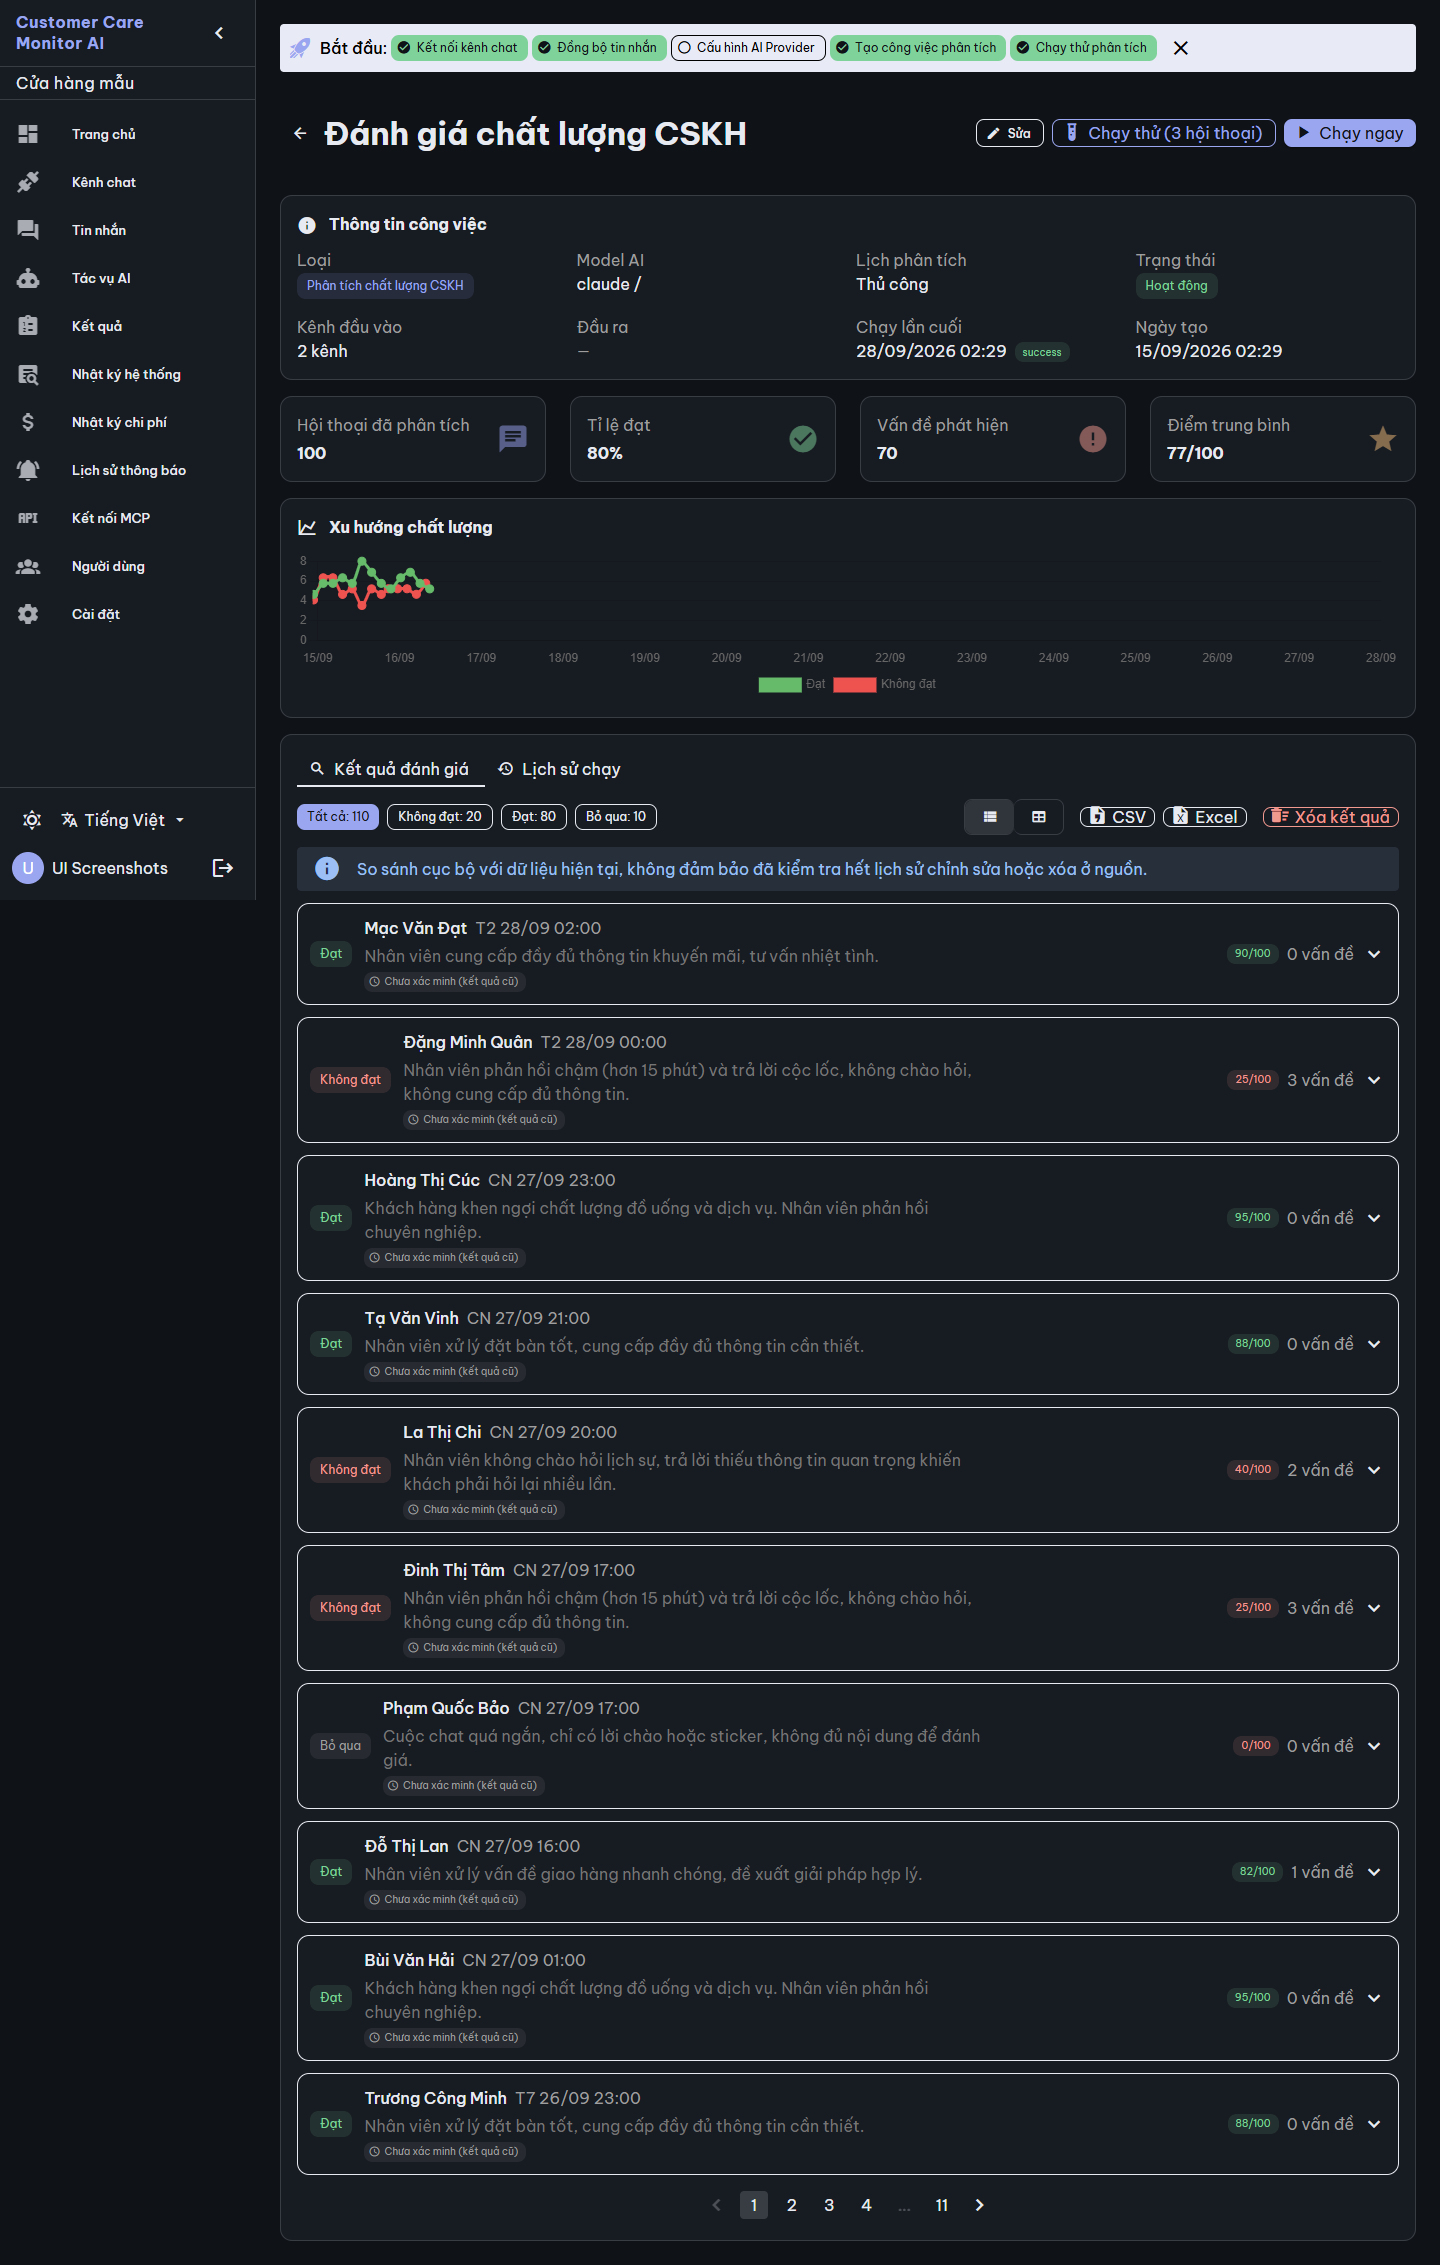
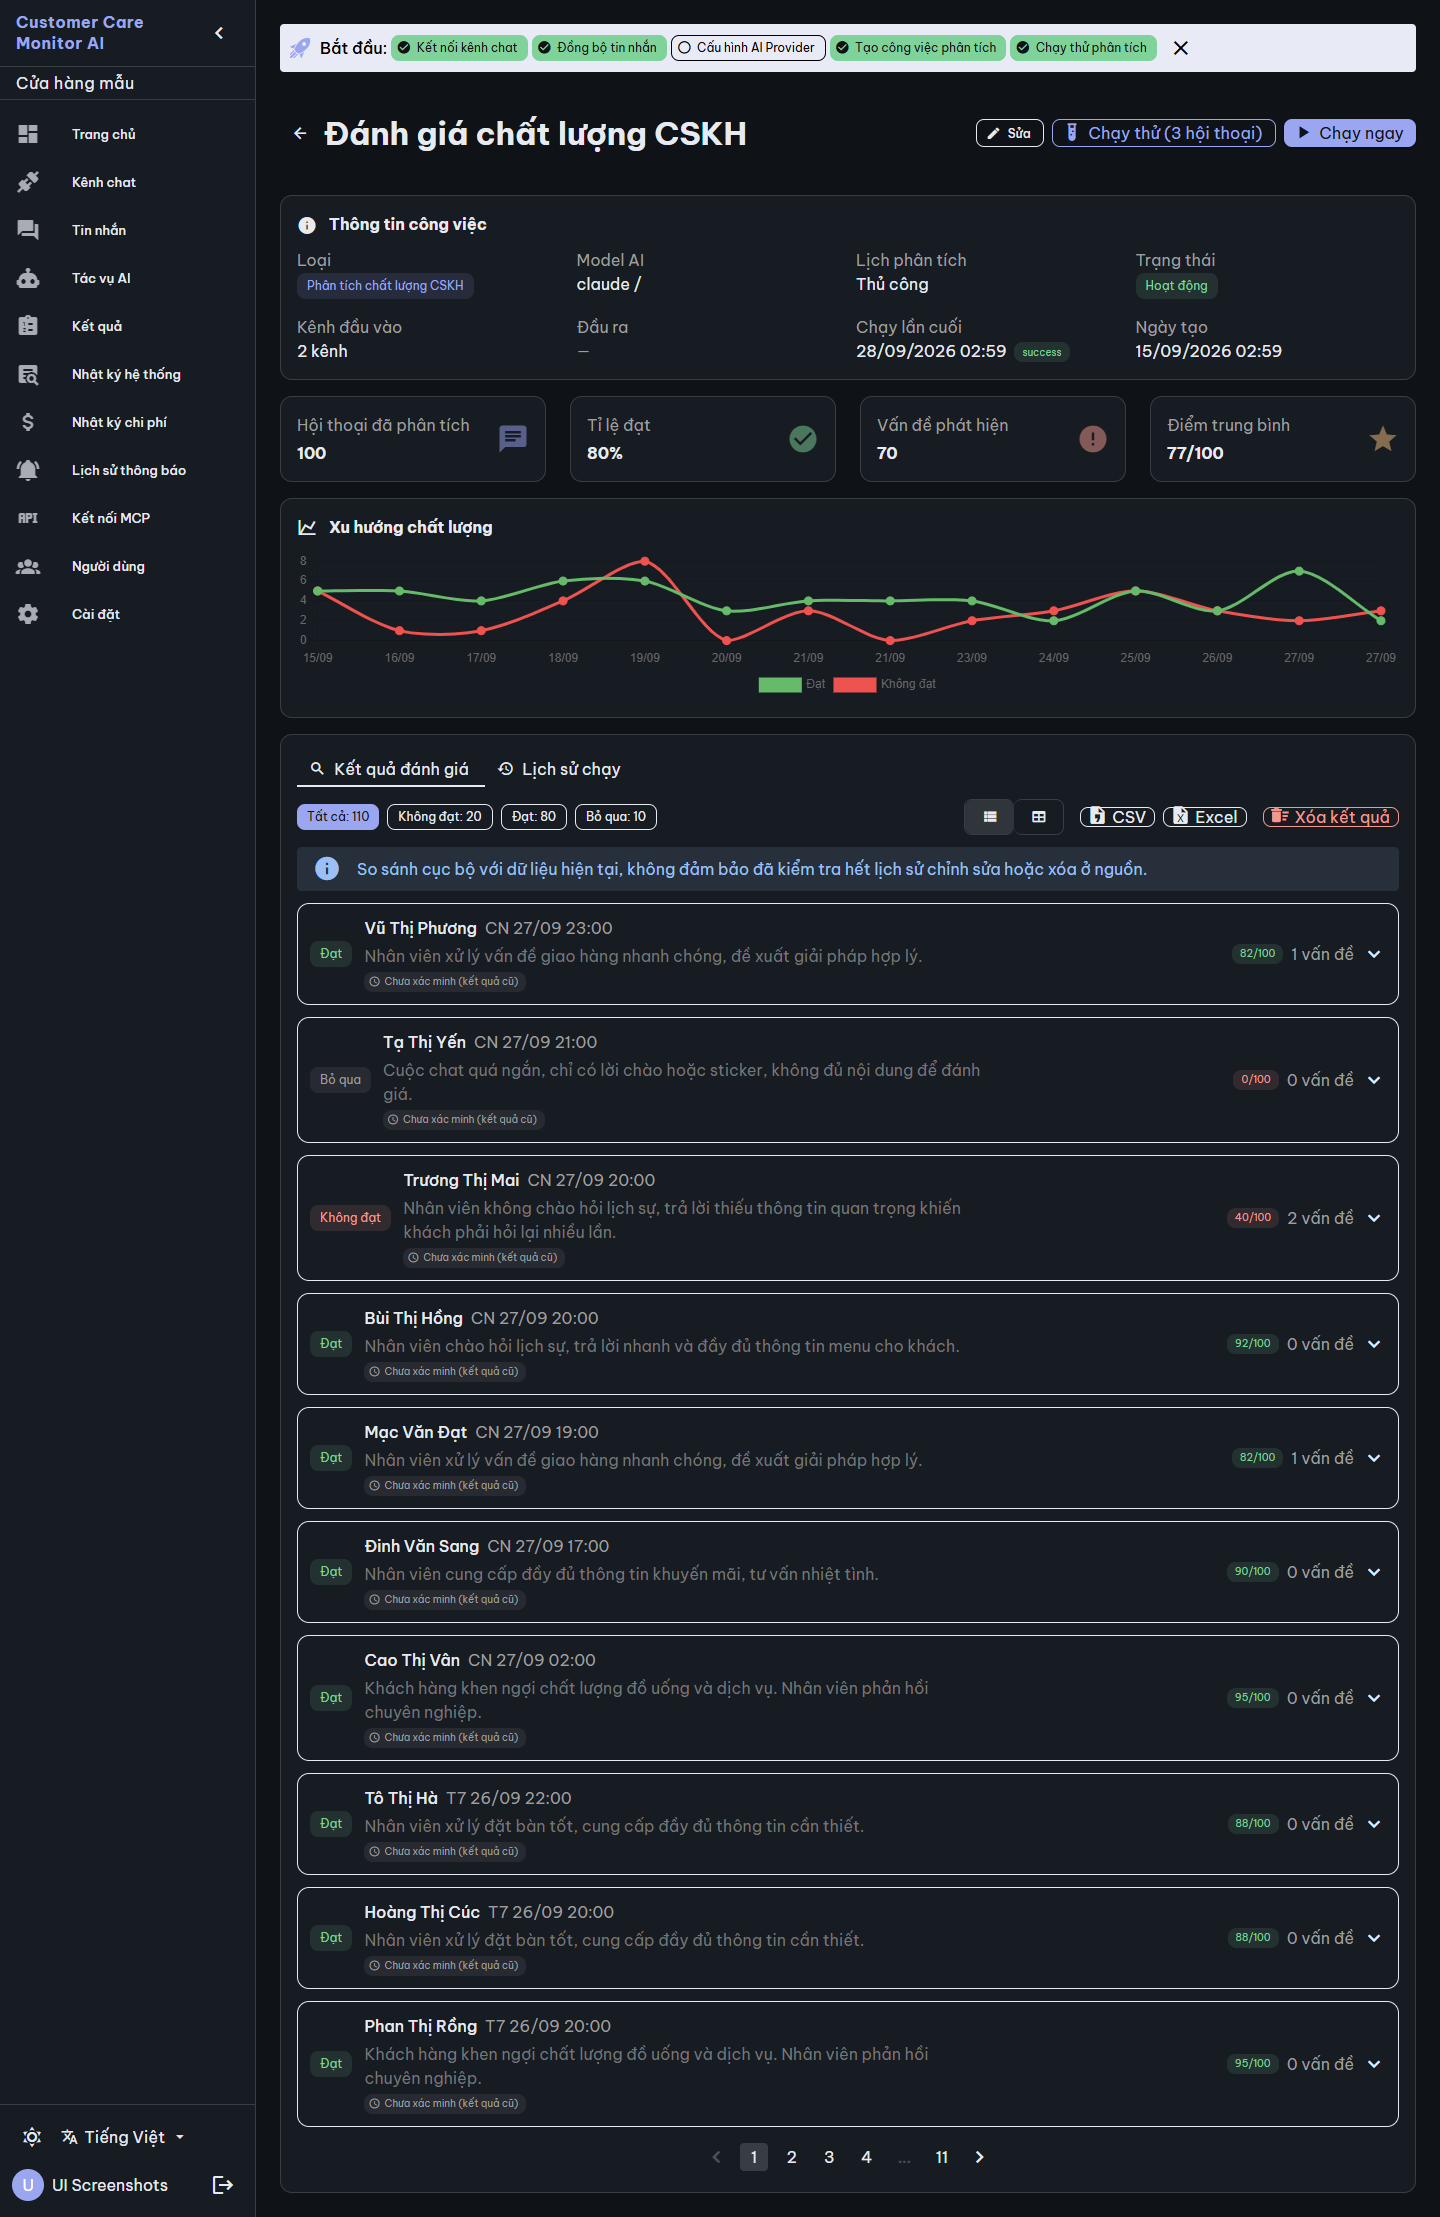
fix: capture charts after the viewport settles (UX-000 A1)
The screenshot tool captured beyond the viewport, which resized it at
capture time and caught Chart.js mid-redraw. Grow the viewport to the
full page first, wait, then capture. UX-000 app evidence recaptured.

diff --git a/docs/reviews/UI_FOUNDATION_UX000_BUILD_2026-09-28.md b/docs/reviews/UI_FOUNDATION_UX000_BUILD_2026-09-28.md
@@ -86,3 +86,11 @@ Mobile light/dark design-system captures and Job Detail captures are in the same
 ## Boundaries
 
 No AI provider call (pure UI tranche). No real channel sync, customer data, persistent `ccma` Compose/DB change, deployment or push. The design-system route is a static wireframe with synthetic data. This evidence makes no CVF governance claim.
+
+## Addendum A1 — screenshot tool chart artifact (same-scope repair before review, 2026-09-28)
+
+While capturing UX-001a evidence, every Chart.js chart (Job Detail trend, dashboard daily charts) showed its points bunched against the left edge, although the axis spanned the full width. The 2026-09-27 baseline (different capture method) rendered the same charts correctly, and a 9-second wait did not help, so this was a capture artifact, not a product defect or an animation timing issue. Cause: `Page.captureScreenshot` with `captureBeyondViewport: true` resizes the viewport at capture time; Chart.js's resize observer then redraws and is caught mid-redraw.
+
+Fix in `scripts/ui-screenshots.mjs` (UX-000 scope): keep the target focused (`Page.bringToFront`, focus emulation), grow the device-metrics viewport to the full page height, wait 1.5 s, then capture without `captureBeyondViewport`. Verified on a kept disposable environment: Job Detail trend and dashboard charts render correctly at desktop and mobile. A side effect is that full-height captures now also show the navigation drawer at full height.
+
+The four committed `app-*.png` files and `report-app.json` in `assets/ux-000-2026-09-28/` were recaptured with the fixed tool (36 pages, 0 JS errors, 0 horizontal overflow, no external requests; disposable project removed). That tree also contains the committed `CCMAI-UX-002` Results change, so the Results image shows its note; UX-001a work was stashed during the capture and is not in these images. The design-system preview images were unaffected (no charts) and are unchanged. Earlier statements in this document about the app captures still hold; only the chart rendering in the images changed.
